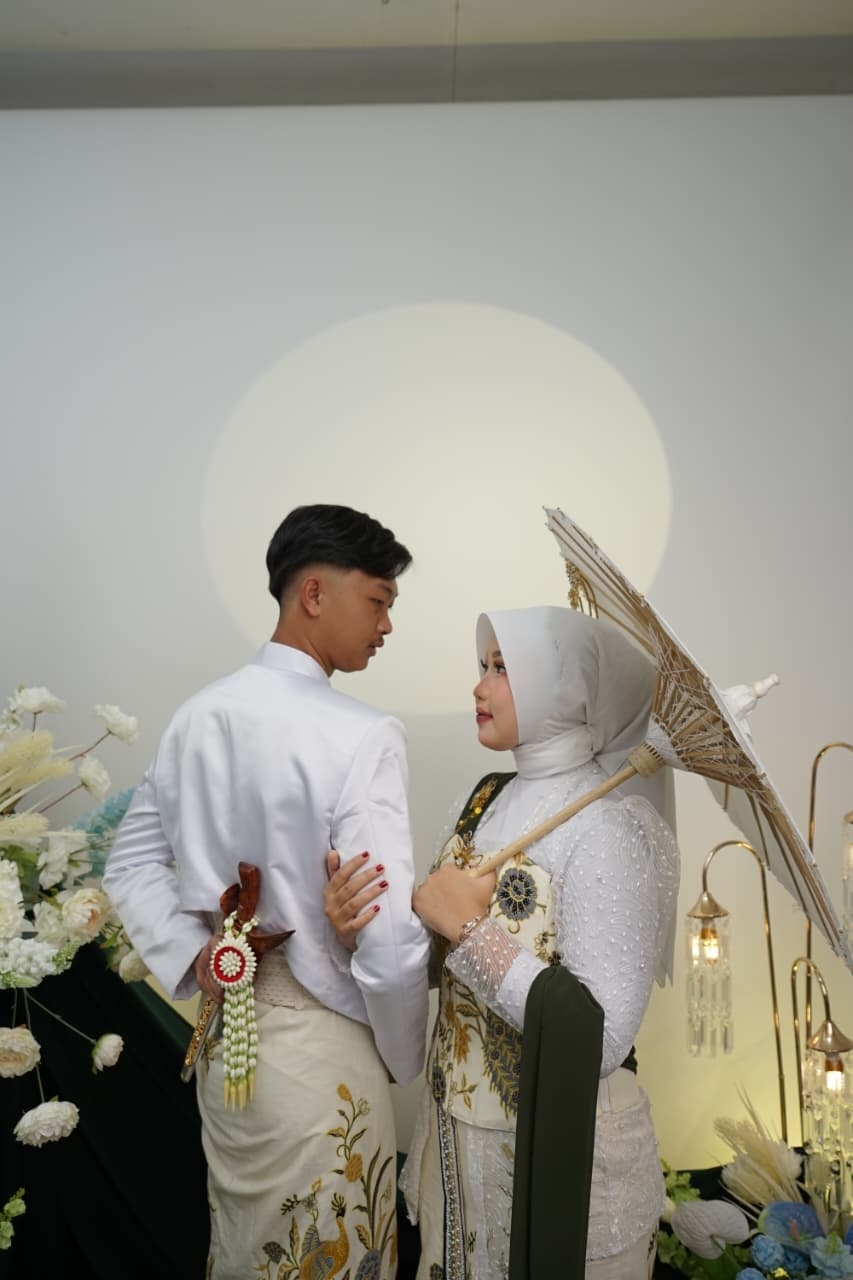
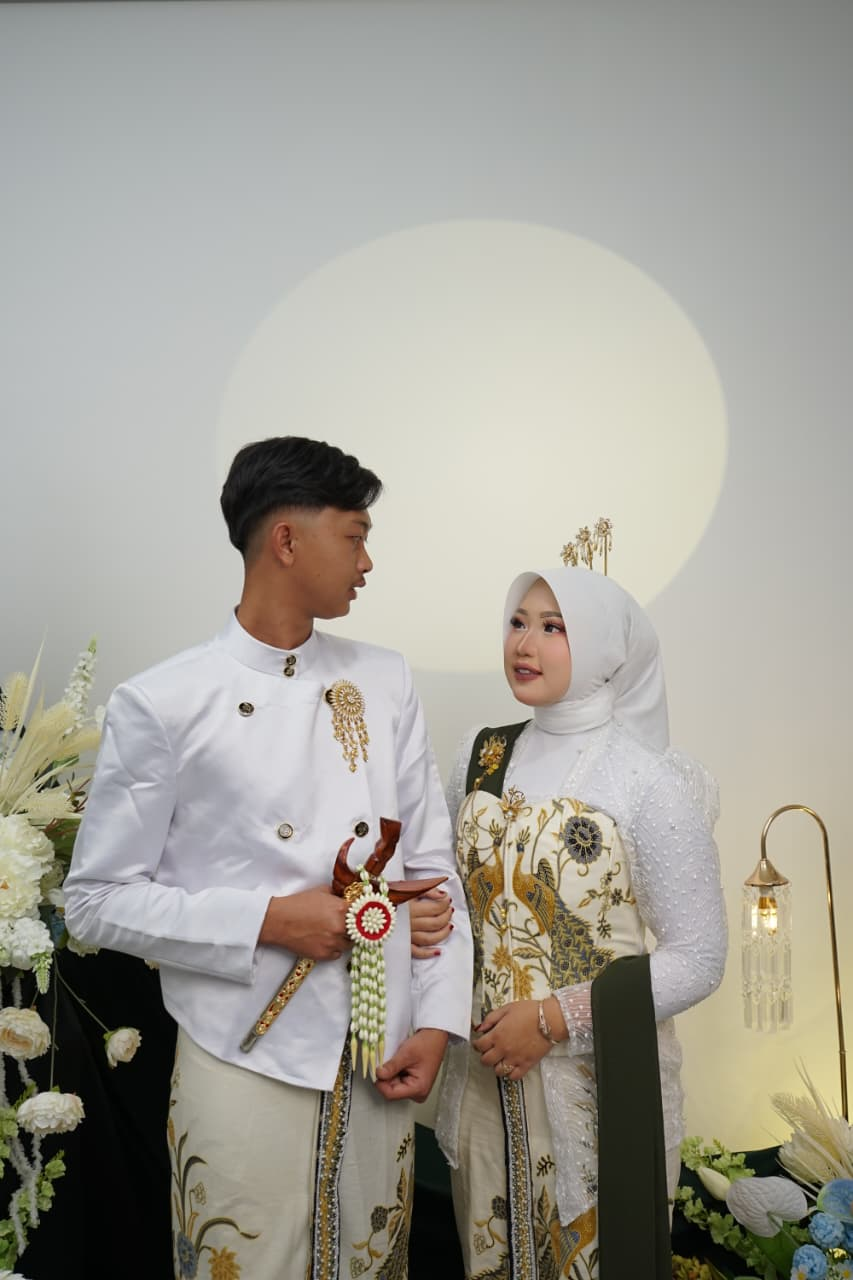
Update layout nama cover, styling CSS, dan update galeri foto

diff --git a/css/style.css b/css/style.css
@@ -315,4 +315,26 @@ textarea.form-control{resize:vertical;min-height:100px}
 @media (prefers-reduced-motion:reduce){
   *,*::before,*::after{animation-duration:.01ms!important;animation-iteration-count:1!important;transition-duration:.01ms!important;scroll-behavior:auto!important}
   .reveal{opacity:1;transform:none;filter:none}
+}/* Nama mempelai: 3 baris tetap (atas - tengah - bawah) */
+.couple-title{
+  display:flex;
+  flex-direction:column;
+  align-items:center;
+  gap:.05em;
+  text-align:center;
+}
+.couple-title .name{
+  display:block;
+  max-width:100%;
+  text-wrap:balance;          /* kalau nama panjang, pecahnya rapi */
+  overflow-wrap:anywhere;
+  line-height:1.05;
+}
+.couple-title .amp{
+  display:block;
+  font-size:.55em;            /* lebih kecil dari nama */
+  font-weight:400;
+  line-height:1;
+  margin:.1em 0;
+  opacity:.9;
 }

diff --git a/index.html b/index.html
@@ -34,9 +34,11 @@
     <div class="overlay"></div>
 
     <div class="opening-content reveal">
-        <span class="subtitle">THE WEDDING OF</span>
-        <h1 id="couple-names-cover" class="couple-title">Maman abdul rahman & Dinceu kamelia</h1>
-        <p id="wedding-date-cover" class="wedding-date-text">22 November 2026</p>
+<h1 id="couple-names-cover" class="couple-title">
+  <span class="name name-groom">Maman Abdul Rahman</span>
+  <span class="amp">&amp;</span>
+  <span class="name name-bride">Dinceu Kamelia</span>
+</h1>
         
         <!-- Kartu Sapaan & Nama Tamu -->
         <div class="guest-envelope-card">

diff --git a/data/wedding.js b/data/wedding.js
@@ -83,8 +83,7 @@ const weddingData = {
         "assets/images/gallery/img_7.jpeg",
         "assets/images/gallery/img_8.jpeg",
         "assets/images/gallery/img_9.jpeg",
-        "assets/images/gallery/img_10.jpeg"
-
+        "assets/images/gallery/img_10.jpeg",
     ],
 
     // Musik Latar
